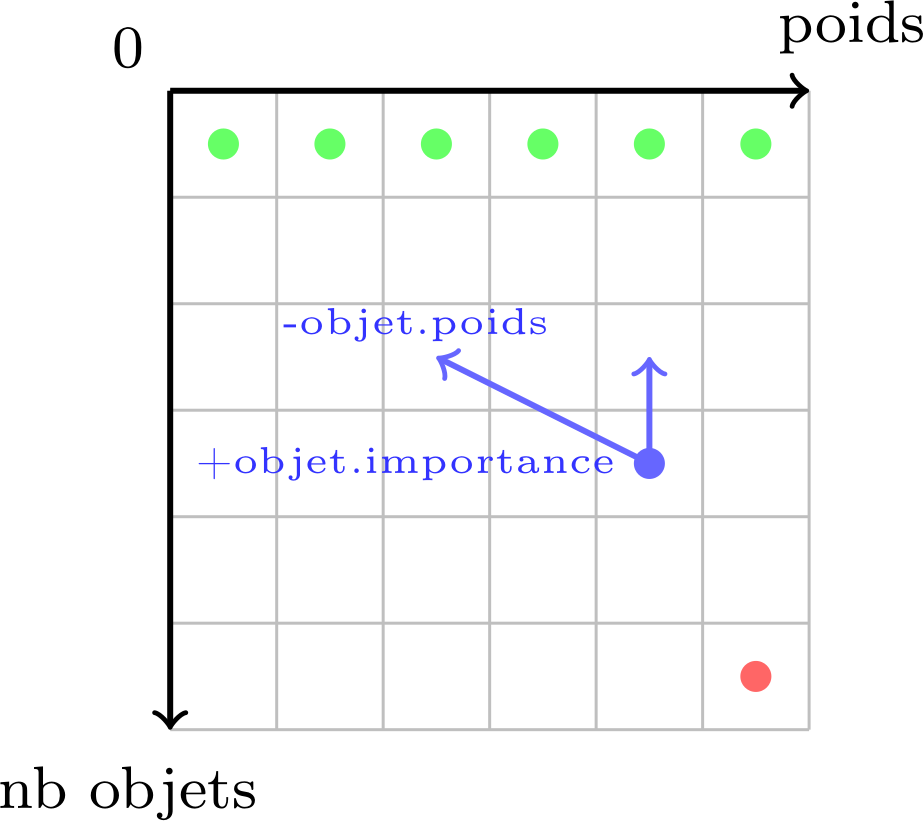
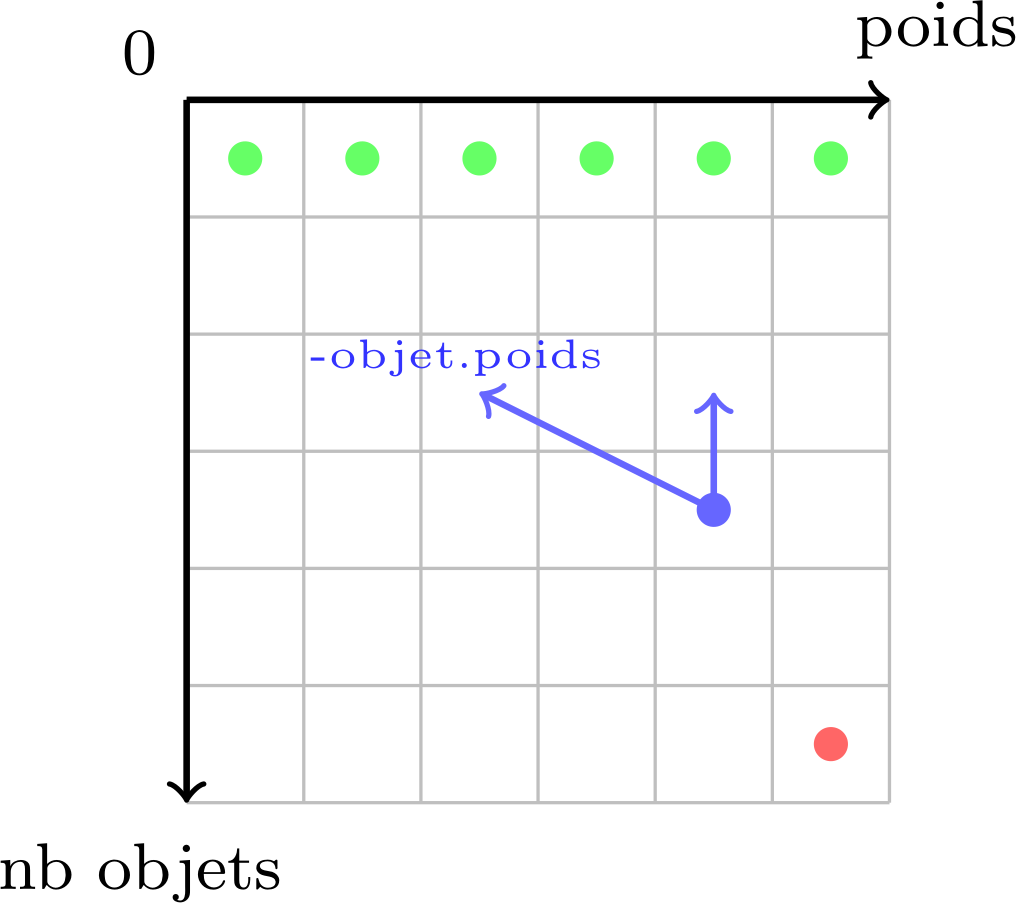
Improved image quality/resolution

diff --git a/website/algo/general/approche/dynamique.html b/website/algo/general/approche/dynamique.html
@@ -73,7 +73,6 @@
 </ul>
 <p>Il y a de nombreux domaines dans laquelle cette méthode excelle (<a href="/algo/recherche/dichotomie.html">dichotomie</a>, <a href="/algo/tri/tri_fusion.html">tri fusion</a>, <a href="/algo/tri/tri_rapide.html">tri rapide</a>, etc.), mais là où elle atteint ses limites c'est lorsque les sous-problèmes rencontrés ne sont pas uniques. Dans ce cas, on en vient à recalculer beaucoup de sous-problèmes que l'on a déjà résolus, ce qui rend notre programme très lent, voire inutilisable. </p>
 <p>La programmation dynamique est un moyen de pallier ce problème d'efficacité du programme, en stockant et en réutilisant les résultats déjà calculés pour éviter les nombreuses opérations inutiles. Plusieurs approches et techniques d'optimisation existent dans ce domaine, et nous étudierons dans cet article les principales.</p>
-<p>TODO: mise en page image (résolution, etc.)</p>
 <h2 id="enonce"><a class="toclink" href="#enonce">Énoncé</a></h2>
 <p>Afin d'aborder cette notion le plus simplement possible, nous allons chercher à résoudre un problème concret, nous permettant de découvrir les différentes facettes de la programmation dynamique :</p>
 <blockquote>

diff --git a/content/articles/algorithme/general/approche/dynamique/dynamique_image.tex b/content/articles/algorithme/general/approche/dynamique/dynamique_image.tex
@@ -149,7 +149,6 @@ for tree={scale=0.5}
    \draw[thick,->,blue!60] (1.25,0.25) -- (1.25,0.75);
    \draw[thick,->,blue!60] (1.25,0.25) -- (0.25,0.75);
    \node[text=blue!80] at (0.15,0.9) {\tiny -objet.poids};
-   \node[text=blue!80] at (0.1,0.25) {\tiny +objet.importance};
 
    % Problème final
    \node[circle,fill=red!60,scale=0.3] at (+1.75,-0.75) {};

diff --git a/content/articles/algorithme/general/approche/dynamique/dynamique.md b/content/articles/algorithme/general/approche/dynamique/dynamique.md
@@ -18,8 +18,6 @@ Il y a de nombreux domaines dans laquelle cette méthode excelle ([dichotomie](/
 
 La programmation dynamique est un moyen de pallier ce problème d'efficacité du programme, en stockant et en réutilisant les résultats déjà calculés pour éviter les nombreuses opérations inutiles. Plusieurs approches et techniques d'optimisation existent dans ce domaine, et nous étudierons dans cet article les principales.
 
-TODO: mise en page image (résolution, etc.)
-
 ## Énoncé
 
 Afin d'aborder cette notion le plus simplement possible, nous allons chercher à résoudre un problème concret, nous permettant de découvrir les différentes facettes de la programmation dynamique :
